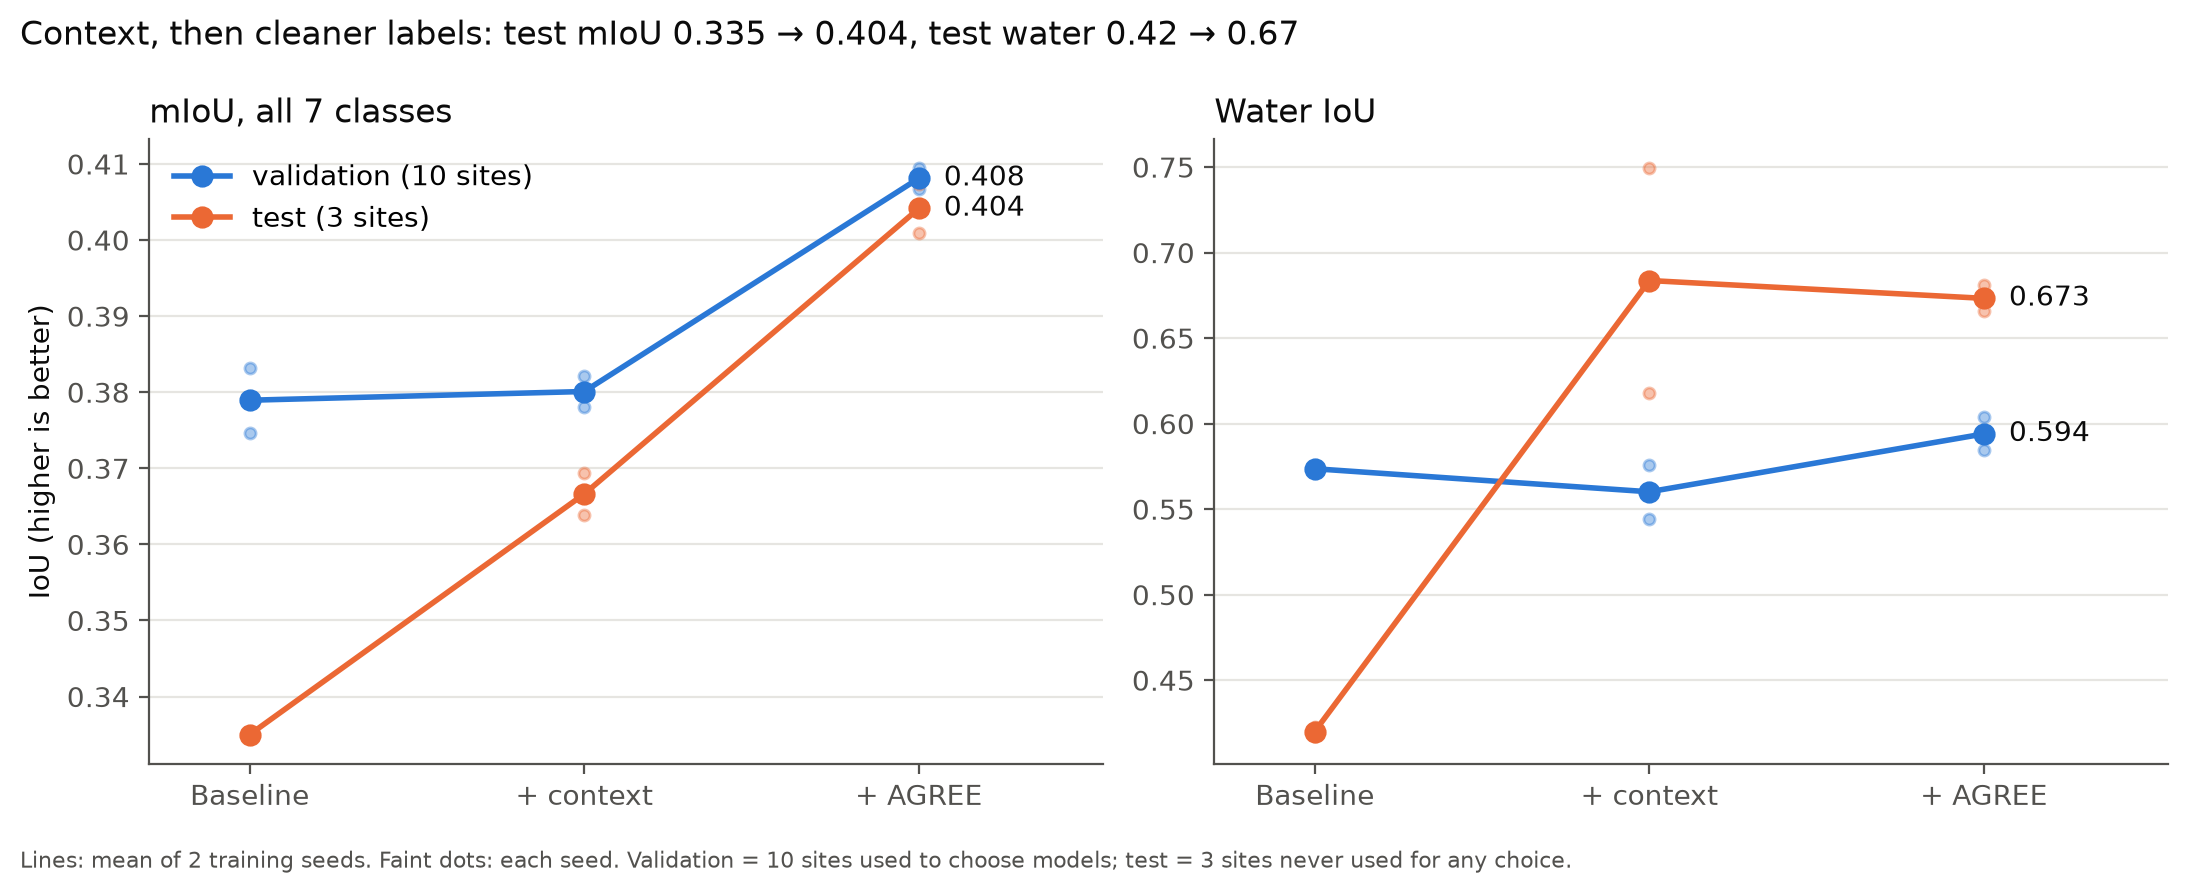
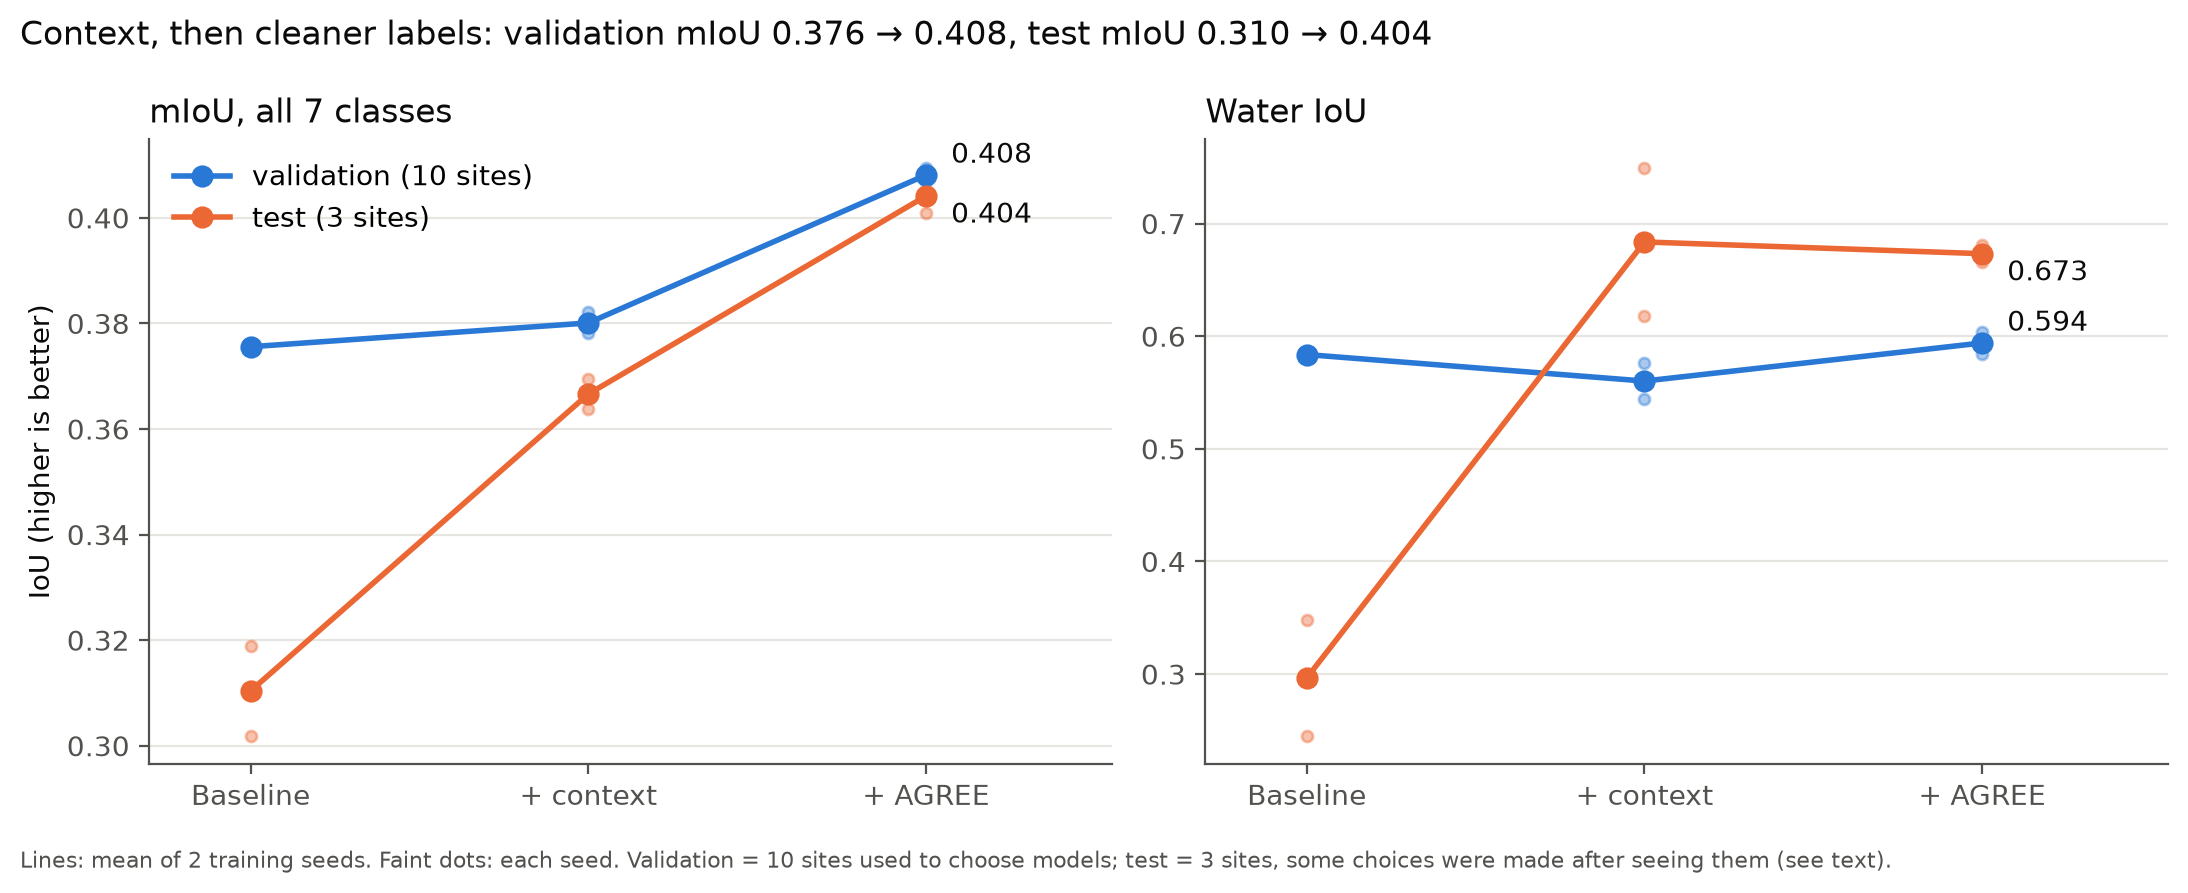
Figure 1 uses the rerun baseline; exp1_rerun README
- 03_report_figures: baseline from exp1_rerun (best epoch on the current 10 validation sites), title computed from
  the data, caveats on test reuse and fragile test water, separated end labels
- exp1_rerun README: original vs rerun baseline and what changes

diff --git a/experiments/exp1_rerun/README.md b/experiments/exp1_rerun/README.md
@@ -1,0 +1,21 @@
+# Experiment 1 rerun: the baseline on the same ruler
+
+**Why:** the original `hybrid` runs of exp1 chose their best epoch on the old 4 validation sites; every later run chose
+on the current 10. To compare every step with the same ruler, the baseline was trained again (same settings,
+QUANTIZE off, the no-data fix in place: 0.09% of training pixels now ignored).
+
+| Run | Val mIoU | Test mIoU | Test water IoU |
+|---|---|---|---|
+| `hybrid` (original, exp1) | 0.375 | 0.335 | 0.423 |
+| `hybrid_seed1` (original, exp1) | 0.383 | 0.335 | 0.417 |
+| `hybrid` (rerun) | 0.376 | 0.302 | 0.245 |
+| `hybrid_seed1` (rerun) | 0.375 | 0.319 | 0.348 |
+
+**Conclusions**
+- Validation is unchanged (0.379 -> 0.376 mean): on validation, context adds nothing and AGREE adds +0.03.
+- On test, the rerun baseline is lower (0.311 vs 0.335 mean), so the total test gain to `hybrid_ctx_agree` is +0.09.
+- Test water is fragile: the same settings give 0.245 to 0.423 depending on seed and on which epoch is picked.
+  Water claims rest on 3 test sites and need fresh test sites to confirm.
+- The rerun is the baseline in `03_report_figures.ipynb`.
+
+Folders: `results/` scores, `runs/` pictures and logs (both in git), `weights/` models (not in git).
